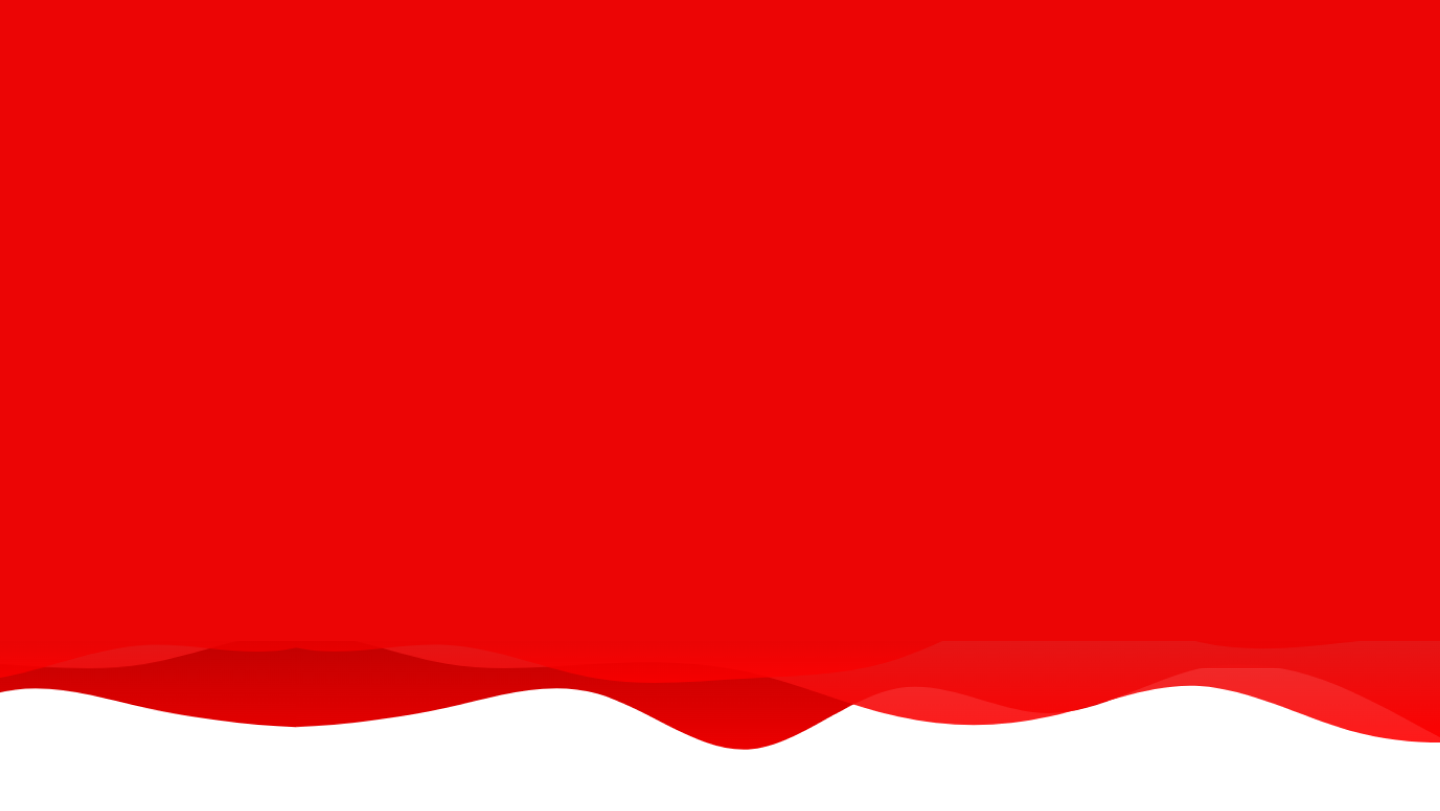
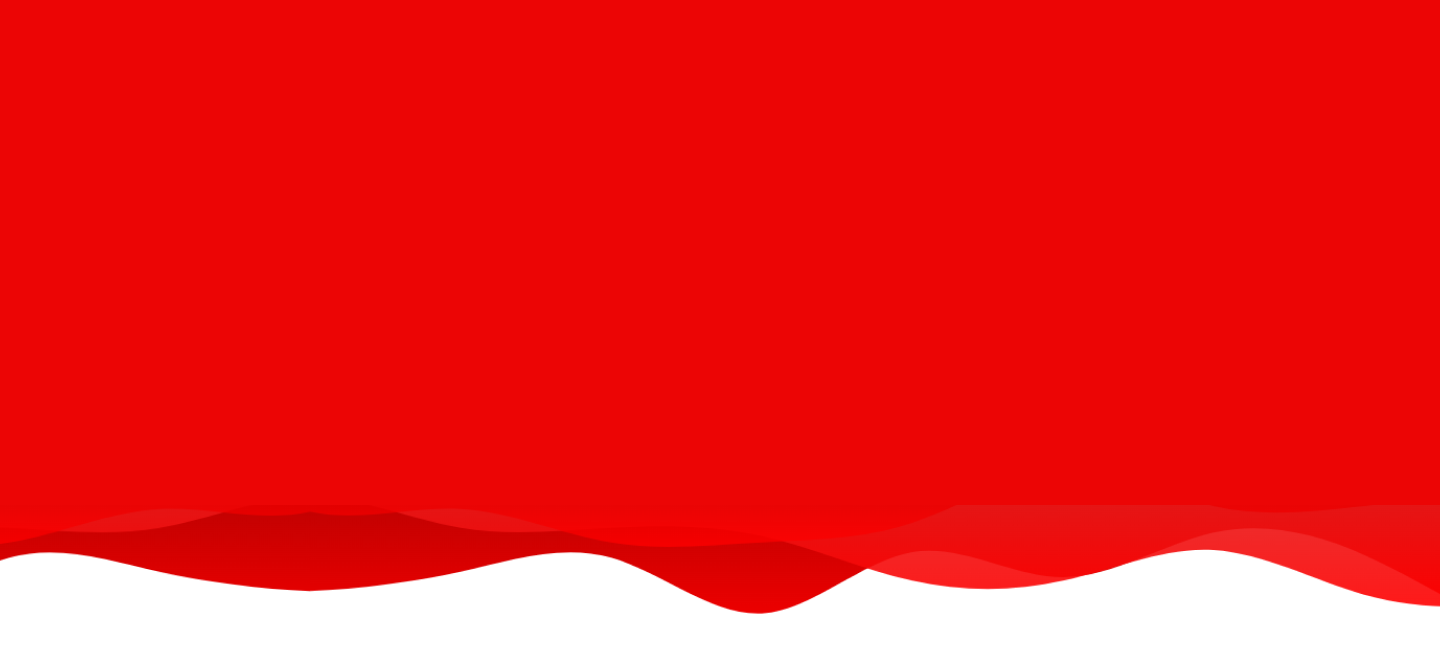
fix : head desktop view

diff --git a/src/user/homepage/components/head-section.jsx b/src/user/homepage/components/head-section.jsx
@@ -28,7 +28,7 @@ const HeadSection = ({ idYoutube }) => {
 
   return (
     <section 
-      className="flex md:flex-row flex-col justify-between py-7 md:py-20 md:h-svh bg-white md:px-10 px-4" 
+      className="flex md:flex-row flex-col justify-between py-7 md:py-20 bg-white md:px-10 px-4" 
       style={{
         backgroundImage: `url(${bgHead})`,
         backgroundSize: 'cover',
@@ -37,8 +37,8 @@ const HeadSection = ({ idYoutube }) => {
       }}
     >
       <div className="md:w-6/12 w-full">
-        <h1 className="text-red-600 text-5xl md:text-6xl font-bold">UKM-FT EECOM</h1>
-        <h1 className="text-red-600 text-xl md:text-3xl font-bold">ENGINEERING ENGLISH COMMUNITY</h1>
+        <h1 className="text-white text-5xl md:text-6xl font-bold">UKM-FT EECOM</h1>
+        <h1 className="text-white text-xl md:text-3xl font-bold">ENGINEERING ENGLISH COMMUNITY</h1>
 
         <motion.div
           variants={fadeInOutVariants}
@@ -50,22 +50,22 @@ const HeadSection = ({ idYoutube }) => {
         >
           {showText ? 
             (
-              <h5 className="mt-2 md:mt-5 text-justify text-sm md:text-base font-medium">
-                Selamat Datang di Website UKM-FT EECOM, Unit Kegiatan Mahasiswa Fakultas Teknik yang Mengasah Minat Bahasa Inggris dengan Cara Seru dan Menyenangkan. Temukan Pengalaman Belajar yang Penuh Keceriaan dan Jadilah Bagian dari Kami yang Selalu Mengutamakan <span className="font-extrabold text-red-600">Be Enjoy, Be Happy!</span>
+              <h5 className="text-white mt-2 md:mt-5 text-justify text-sm md:text-base font-medium">
+                Selamat Datang di Website UKM-FT EECOM, Unit Kegiatan Mahasiswa Fakultas Teknik yang Mengasah Minat Bahasa Inggris dengan Cara Seru dan Menyenangkan. Temukan Pengalaman Belajar yang Penuh Keceriaan dan Jadilah Bagian dari Kami yang Selalu Mengutamakan <span className="font-extrabold">Be Enjoy, Be Happy!</span>
               </h5>
             ) : (
-              <h5 className="mt-2 md:mt-5 text-justify text-sm md:text-base font-medium">
-                Welcome to the UKM-FT EECOM Website, the Student Activity Unit of the Faculty of Engineering that Sharpens English Interests in a Fun and Enjoyable Way. Discover a Learning Experience Full of Joy and Become Part of Us Who Always Prioritize <span className="font-extrabold text-red-600">Be Enjoy, Be Happy!</span>
+              <h5 className="text-white mt-2 md:mt-5 text-justify text-sm md:text-base font-medium">
+                Welcome to the UKM-FT EECOM Website, the Student Activity Unit of the Faculty of Engineering that Sharpens English Interests in a Fun and Enjoyable Way. Discover a Learning Experience Full of Joy and Become Part of Us Who Always Prioritize <span className="font-extrabold">Be Enjoy, Be Happy!</span>
               </h5>
             )}
 
         </motion.div>
 
         <div className="flex flex-row mt-4 justify-between items-center">
-          <button type="button" className="text-red-700 hover:text-white border border-red-700 hover:bg-red-600 focus:ring-4 focus:outline-none focus:ring-red-300 font-bold rounded-md text-sm px-20 py-3 text-center me-2 mb-2">About Us</button>
+          <button type="button" className="text-white hover:text-red-600 border border-white hover:bg-white focus:ring-4 focus:outline-none focus:ring-white font-bold rounded-md text-sm px-20 py-3 text-center me-2 mb-2">About Us</button>
 
-          <div className="flex text-red-700">
-            <Link to={"https://www.instagram.com/ukmfteecom/"} target="_blank" className="me-5"><BsInstagram/></Link>
+          <div className="flex text-white">
+            <Link to={"https://www.instagram.com/ukmfteecom/"} target="_blank" className="me-5" ><BsInstagram/></Link>
             <Link to={"http://www.youtube.com/@UKMFTEECOM"} target="_blank" className="me-5"><BsYoutube/></Link>
             <Link to={"https://www.tiktok.com/@ukmfteecom"} target="_blank" ><BsTiktok/></Link>
           </div>
@@ -77,14 +77,14 @@ const HeadSection = ({ idYoutube }) => {
 
       <div className="flex md:w-6/12 w-full md:ps-10 justify-center items-center mt-5 md:mt-0">
         <iframe 
-          className="xl:h-96 h-60 w-full rounded-xl border-4 border-red-600"
+          className="xl:h-96 h-60 w-full rounded-xl border-4 border-white"
           src={`https://www.youtube.com/embed/${idYoutube}`}
           title="Video Player YouTube" 
           frameBorder="0"
           allow="accelerometer; autoplay; clipboard-write; encrypted-media; gyroscope; picture-in-picture; web-share" 
           referrerPolicy="strict-origin-when-cross-origin" 
           allowFullScreen
-          style={{boxShadow: '10px 10px 15px rgba(255, 0, 0, 0.5)'}}
+          style={{boxShadow: '10px 10px 15px rgba(0, 0, 0, 0.5)'}}
         />
 
       </div>

diff --git a/src/user/homepage/components/divisi-section.jsx b/src/user/homepage/components/divisi-section.jsx
@@ -2,7 +2,7 @@ import { entreIcons, hrdIcons, icIcons, rndIcons } from "../../../global/assets"
 
 export default function DivisionSection() {
   return (
-    <section className="bg-slate-200 md:px-10 px-4 py-7 md:py-20">
+    <section className="bg-white md:px-10 px-4 py-7 md:py-20">
       <h1 className="w-full text-center text-2xl md:text-4xl font-bold">EECOM DIVISIONS</h1>
       
       <div>
